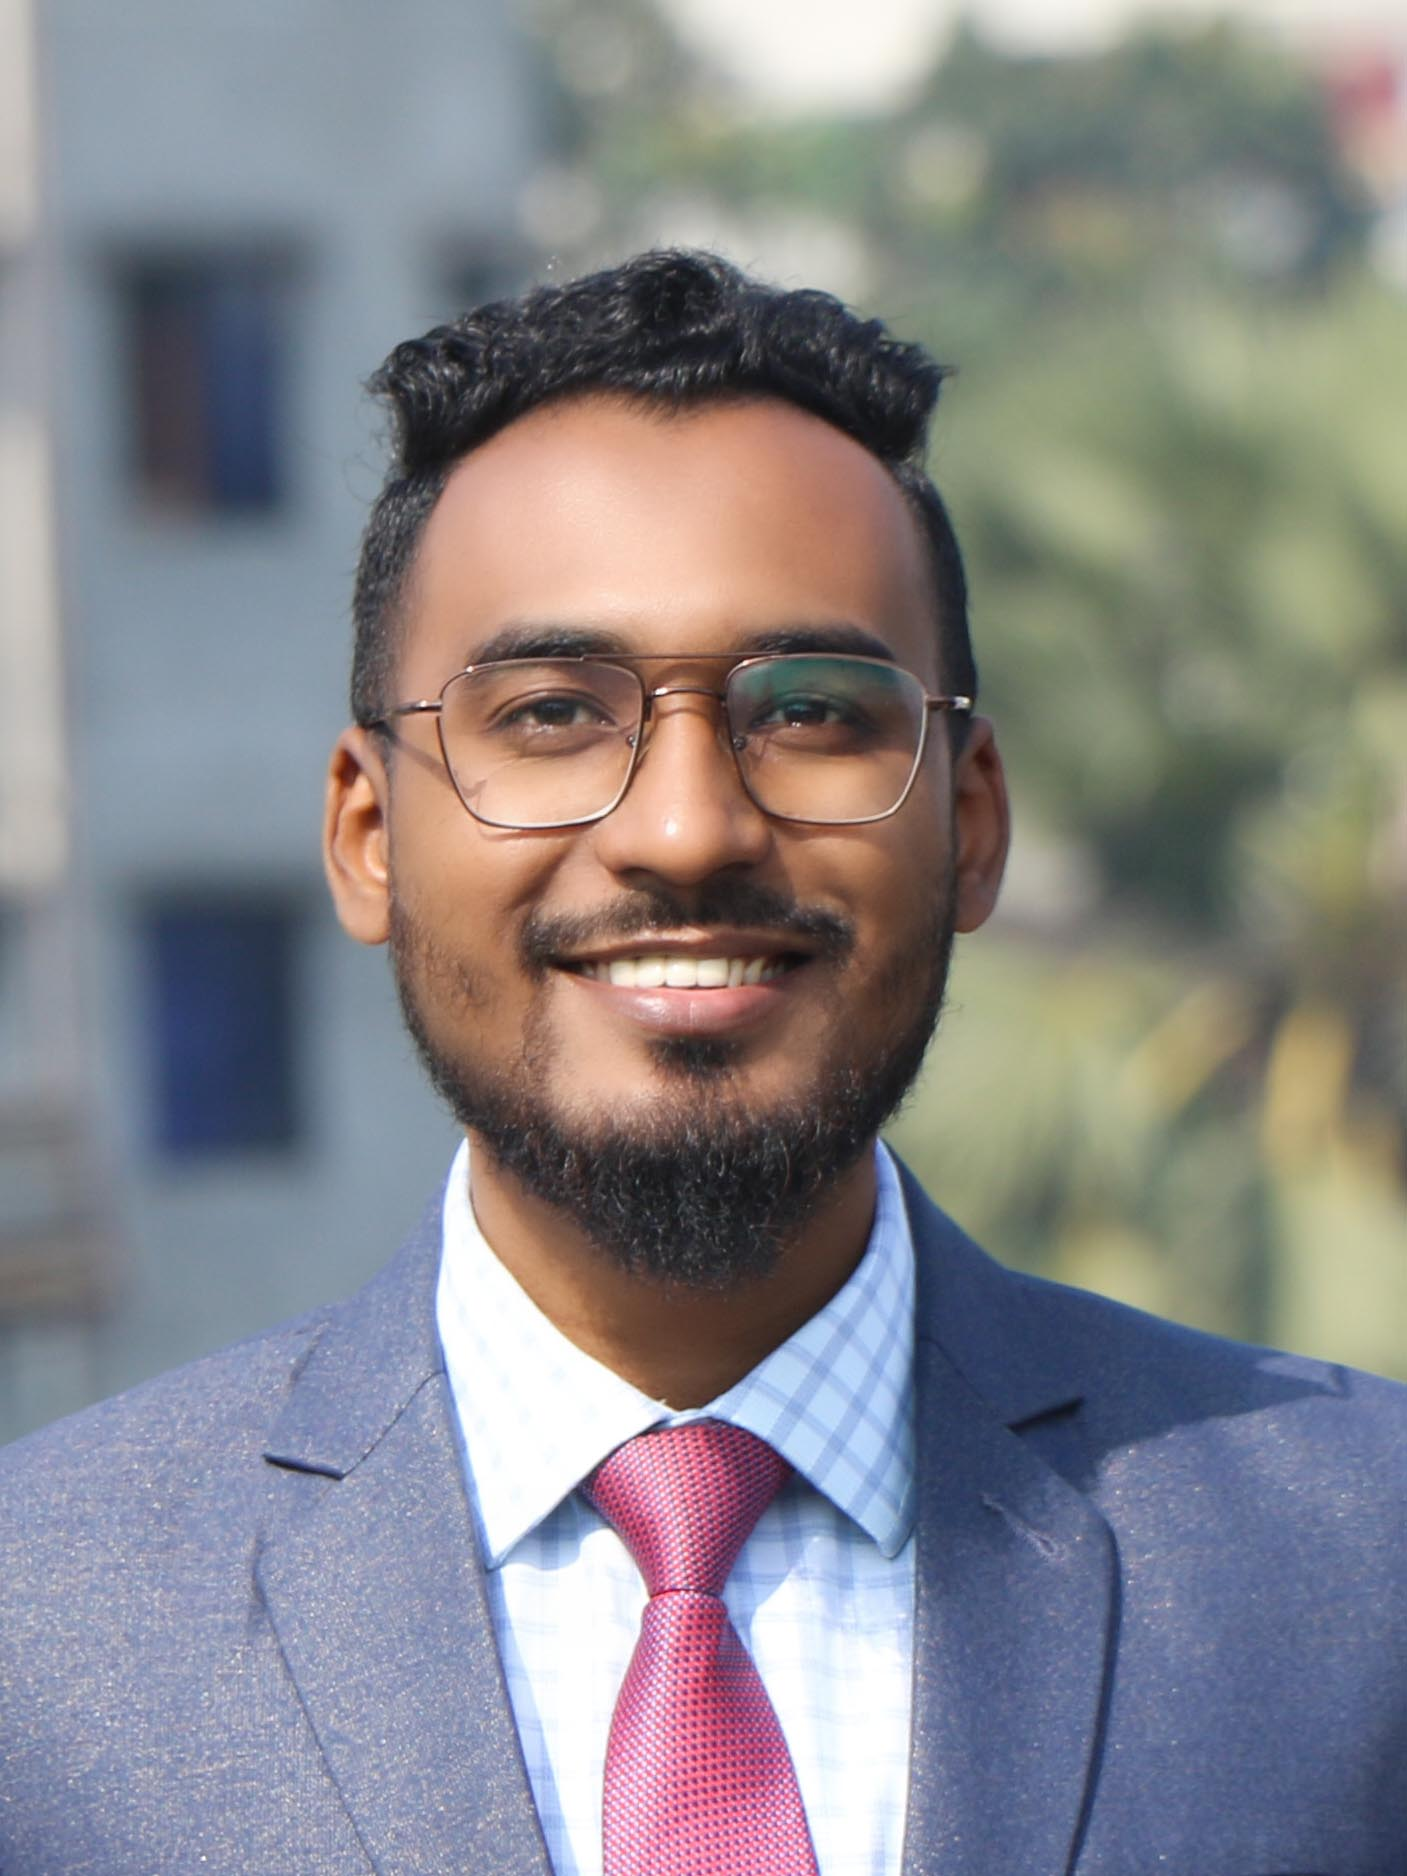
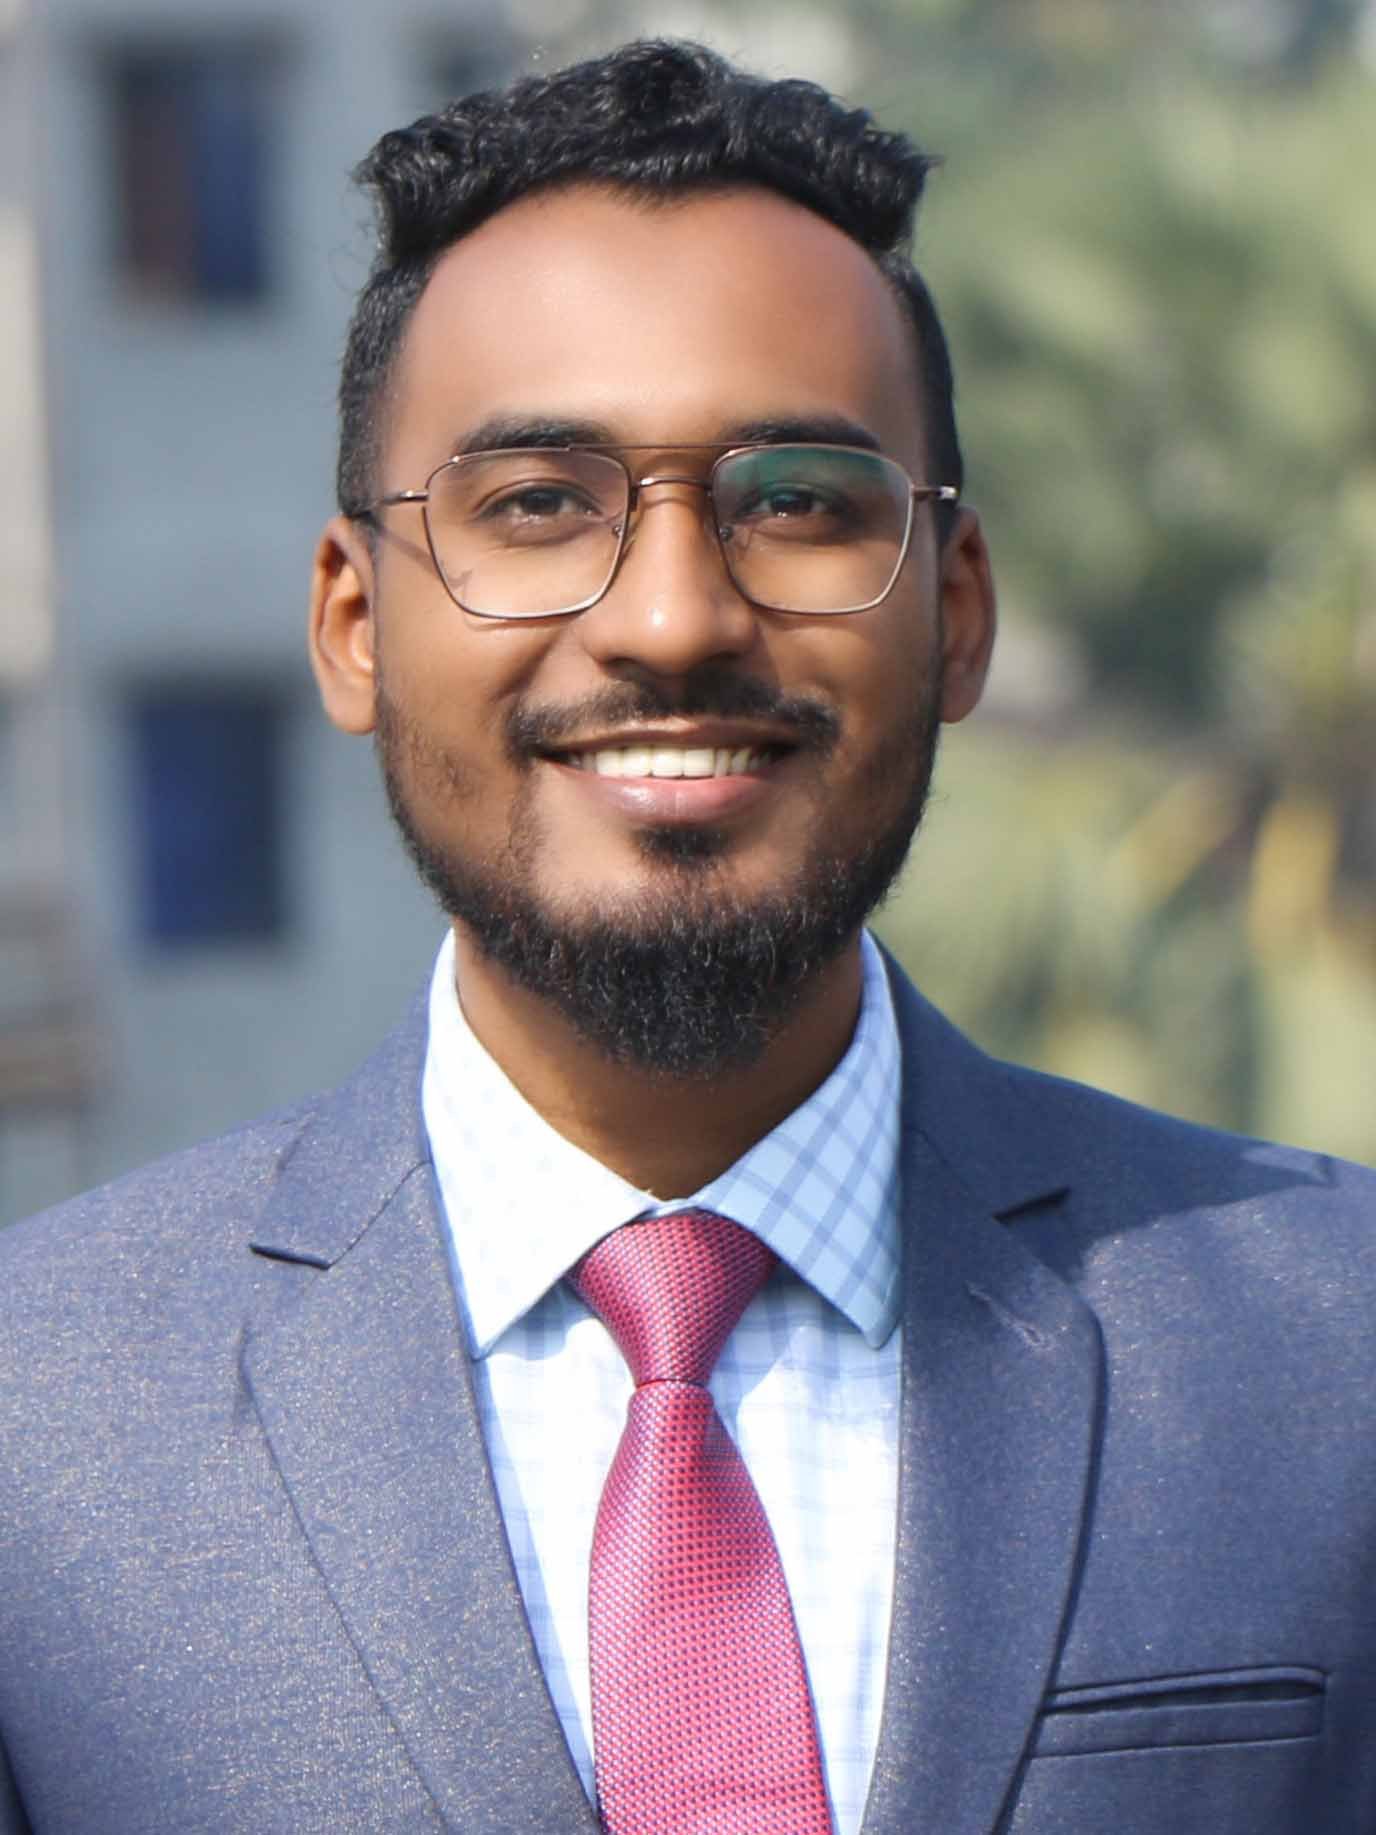
carousel modified

diff --git a/resources/views/home.blade.php b/resources/views/home.blade.php
@@ -14,21 +14,21 @@
         </ol>
         <div class="carousel-inner" role="listbox">
             <!-- Slide One - Set the background image for this slide in the line below -->
-            <div class="carousel-item active" style="background-image: url('assets/img/slider-01.jpg')">
+            <div class="carousel-item active" style="background-image: url('assets/img/istockphoto-105.jpg')">
                 <div class="carousel-caption d-none d-md-block">
                     <h3>Welcome to CrackIT Limited</h3>
                     <p>A Great software Consulting firm</p>
                 </div>
             </div>
             <!-- Slide Two - Set the background image for this slide in the line below -->
-            <div class="carousel-item" style="background-image: url('assets/img/slider-02.jpg')">
+            <div class="carousel-item" style="background-image: url('assets/img/istockphoto2.jpg')">
                 <div class="carousel-caption d-none d-md-block">
                     <h3>Best Consulting Services.</h3>
                     <p>A Great software Consulting firm</p>
                 </div>
             </div>
             <!-- Slide Three - Set the background image for this slide in the line below -->
-            <div class="carousel-item" style="background-image: url('assets/img/slider-03.jpg')">
+            <div class="carousel-item" style="background-image: url('assets/img/istockphoto612.jpg')">
                 <div class="carousel-caption d-none d-md-block">
                     <h3>Welcome to CrackIT</h3>
                     <p>A Great software Consulting firm</p>

diff --git a/resources/views/management.blade.php b/resources/views/management.blade.php
@@ -26,10 +26,10 @@
             <div class="col-lg-4 mb-4">
                 <div class="card h-100 text-center">
                     <div class="our-team">
-                        <img class="img-fluid" src="{{url('assets/img/shariful.jpg')}}" alt="" />
+                        <img class="img-fluid" src="{{url('assets/img/sharif.jpg')}}" alt="" />
                         <div class="team-content">
                             <h3 class="title">Md Shariful Islam</h3>
-                            <span class="post">Managing Director</span>
+                            <span class="post">Managing Director (MD)</span>
                             <ul class="social">
                                 <li><a target="_blank" href="https://www.facebook.com/shariful7200"><i
                                             class="fab fa-facebook-f"></i></a></li>

diff --git a/resources/views/team.blade.php b/resources/views/team.blade.php
@@ -152,7 +152,7 @@
                         <img class="img-fluid" src="{{url('assets/img/nisha.jpg')}}" alt="" />
                         <div class="team-content">
                             <h3 class="title">Nisha Azmerry</h3>
-                            <span class="post">Apex Devoloper</span>
+                            <span class="post">Apex Developer</span>
                         </div>
                     </div>
                 </div>
